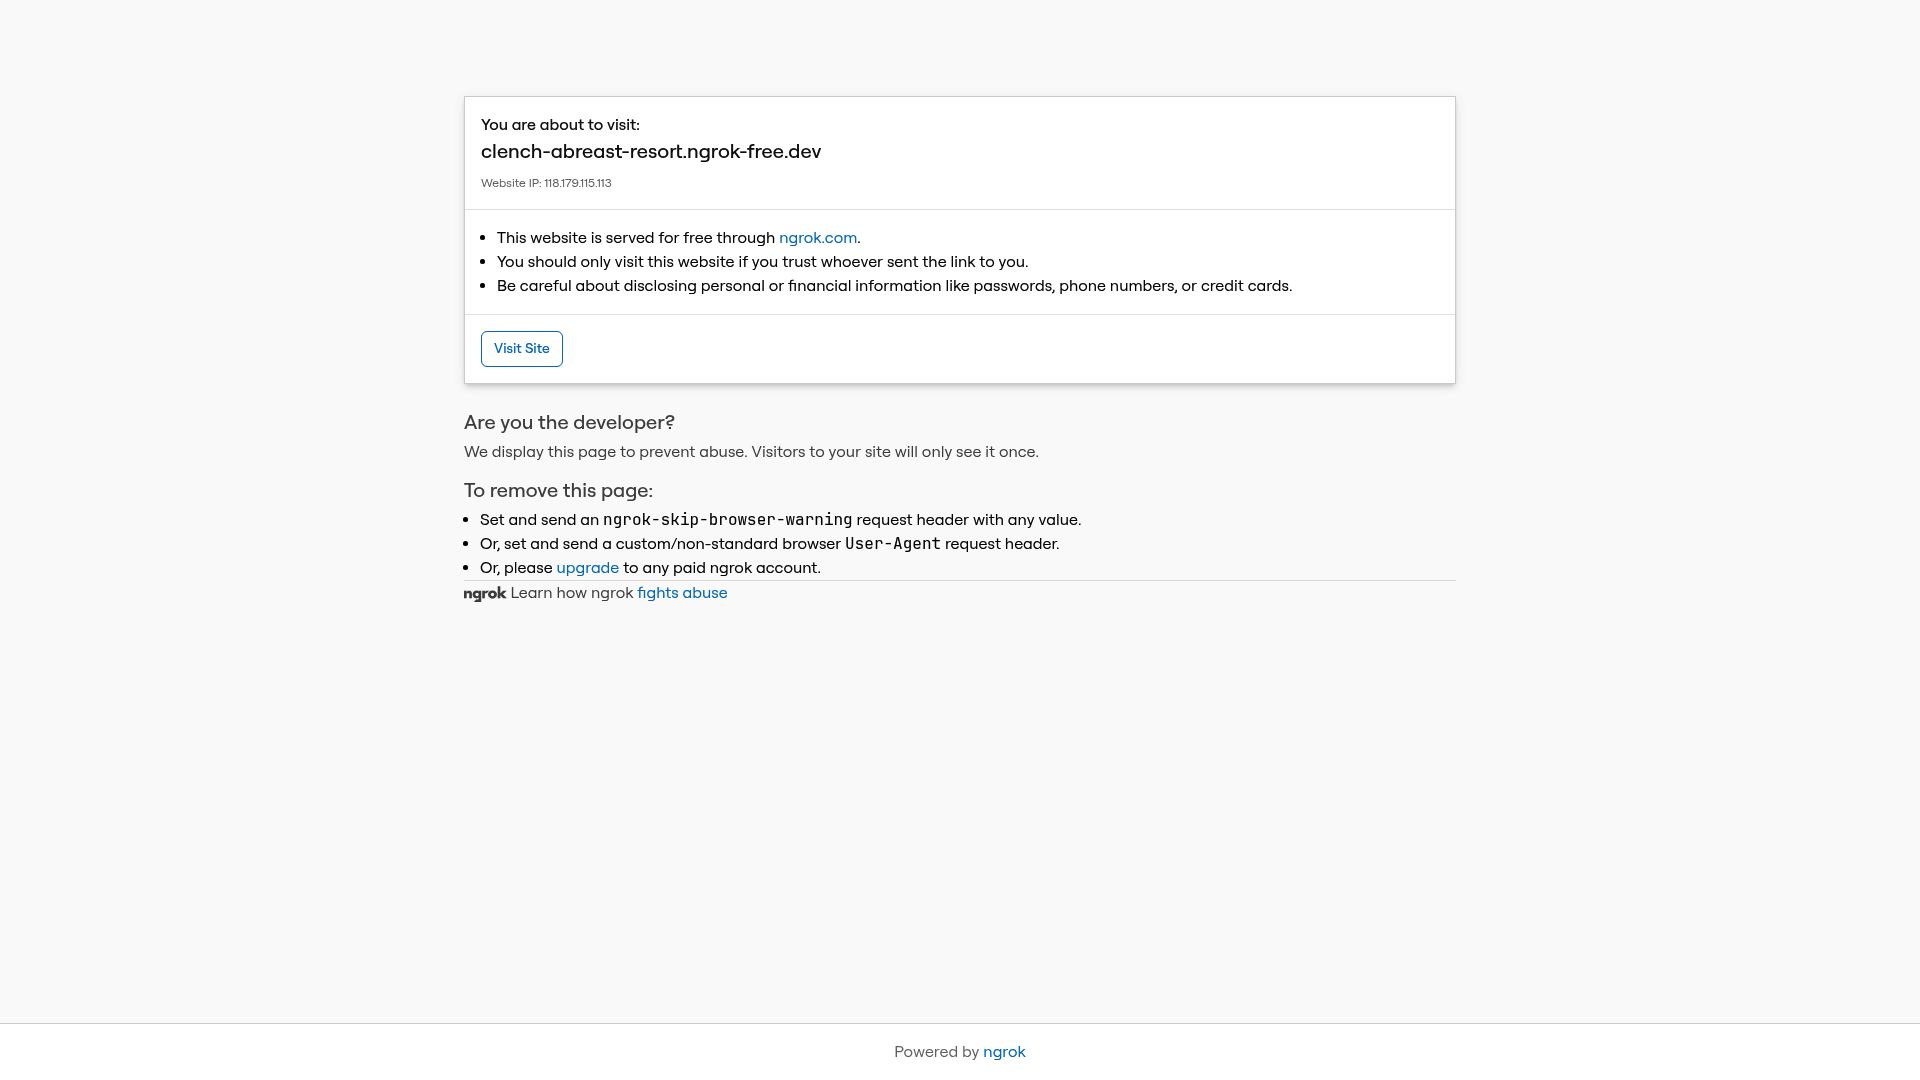
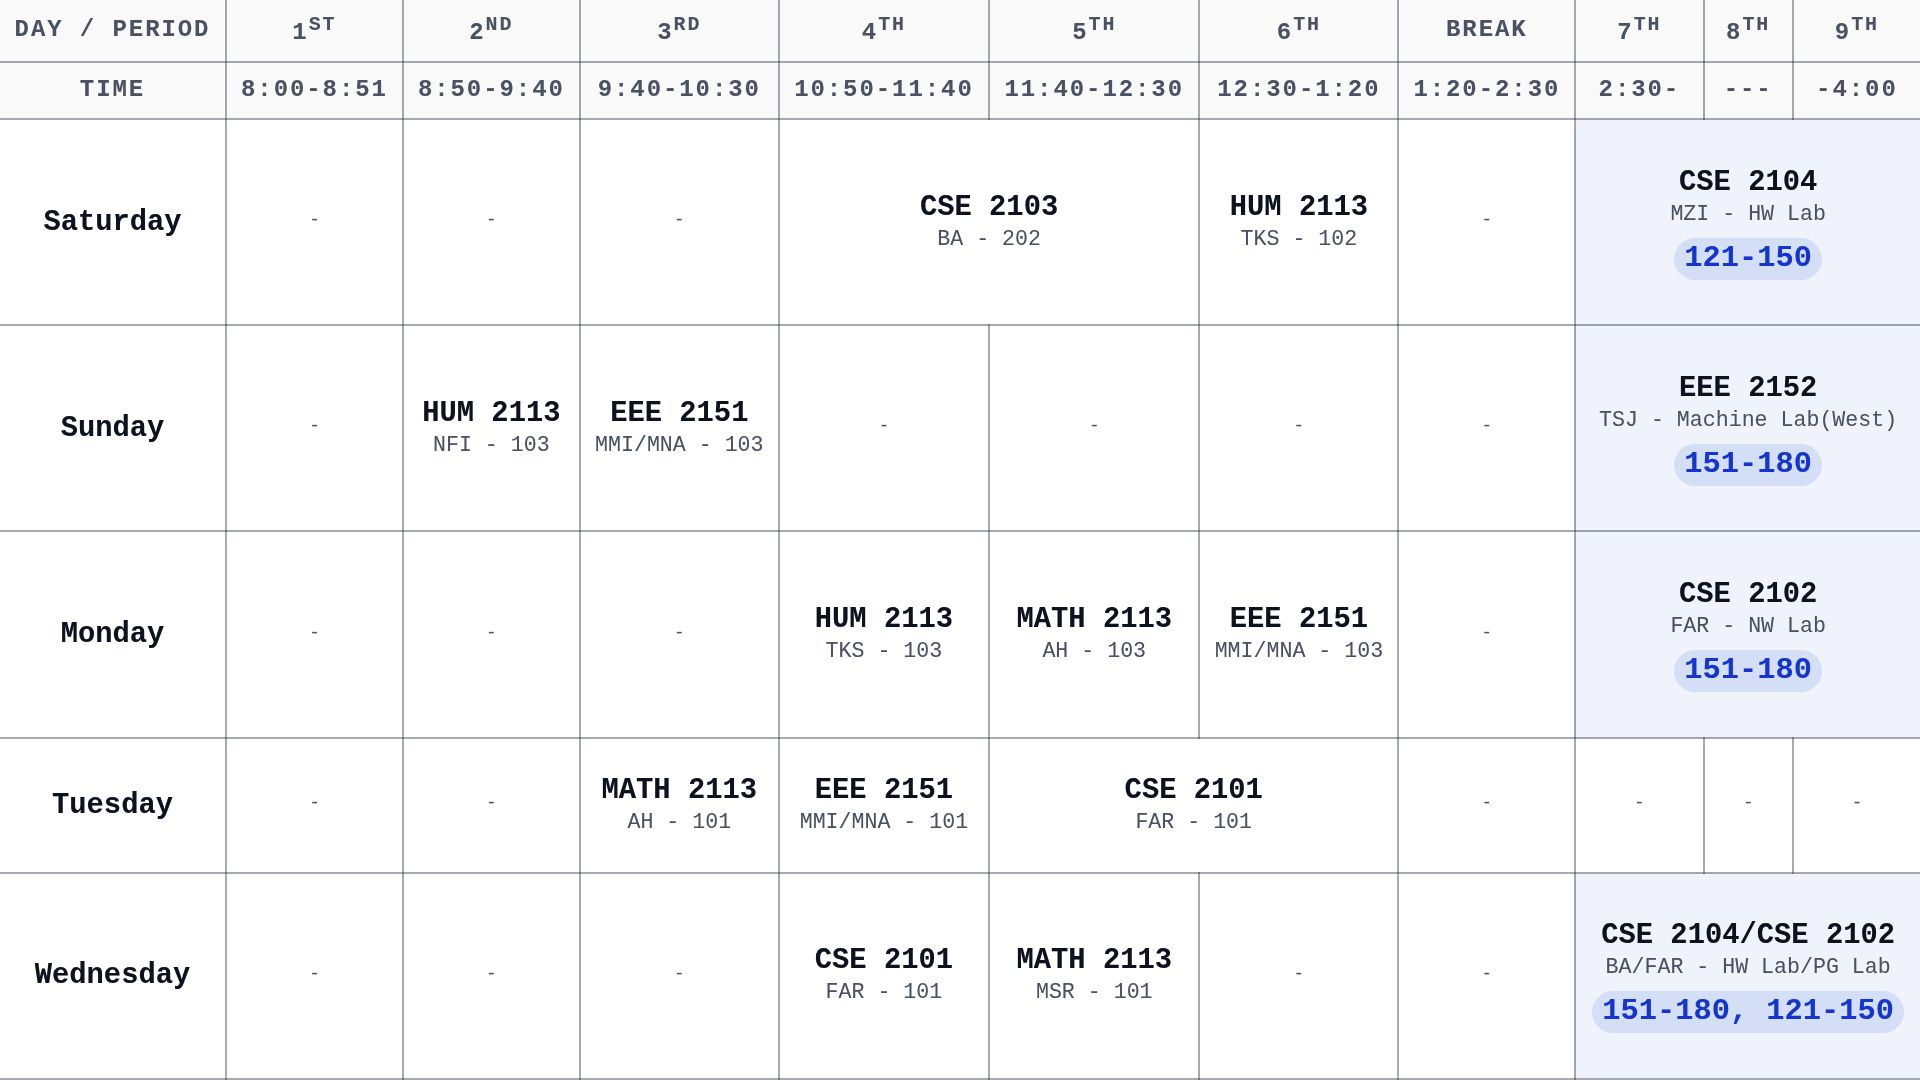
2.0.0

diff --git a/bot/services/routine.py b/bot/services/routine.py
@@ -78,6 +78,8 @@ def update_routine() -> None:
     try:
         print("Routine Update started...")
         os.makedirs("resources/routine", exist_ok=True)
+        ROUTINE_URL_ODD_WEEK = "https://ruet-cse-liart.vercel.app/routine/odd"
+        ROUTINE_URL_EVEN_WEEK = "https://ruet-cse-liart.vercel.app/routine/even"
         take_web_screenshot(ROUTINE_URL_ODD_WEEK, output_path=routine_path_odd_week)
         take_web_screenshot(ROUTINE_URL_EVEN_WEEK, output_path=routine_path_even_week)
         _save_last_sync_time(_latest_routine_updated_at() or _utc_now())
@@ -210,3 +212,7 @@ async def circulate_routine(update: Update, context: ContextTypes) -> None:
     success_count = sum(results)
 
     await msg.edit_text(f"Routine circulated to {success_count}/{len(active_users)} people. ✅")
+
+
+
+update_routine()
